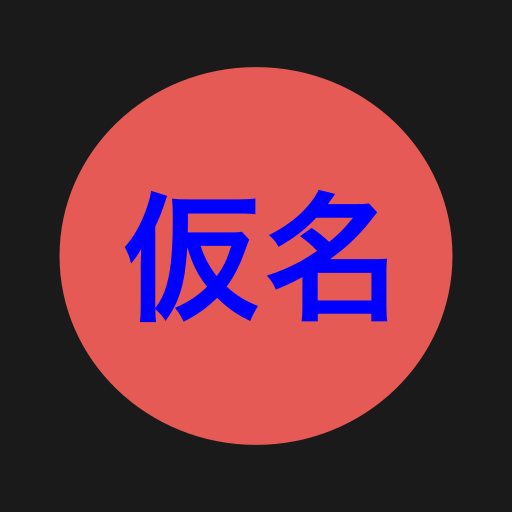
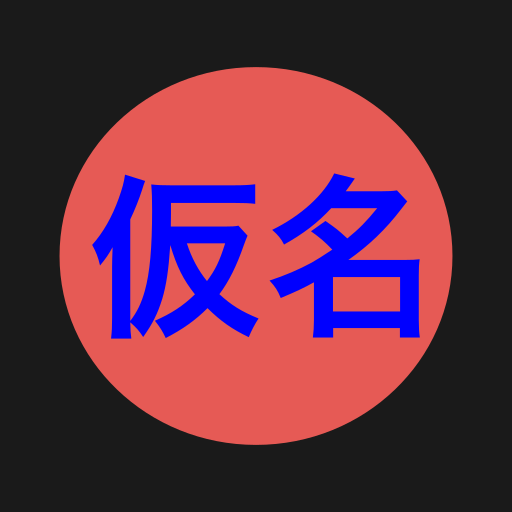
Update kana-match app
Source: 0d33e7e Revert "Fix iOS PWA navigation redirect error in service worker"

Changed region(s): [[0.1562, 0.3438, 0.5, 0.6875], [0.5, 0.3438, 0.8438, 0.6875]]

diff --git a/kana-match/sw.js b/kana-match/sw.js
@@ -1,4 +1,4 @@
-const CACHE = 'kana-v9';
+const CACHE = 'kana-v8';
 const ASSETS = ['./index.html', './style.css', './game.js', './manifest.json', './icon-192.png', './icon-512.png', './gear.png'];
 
 self.addEventListener('install', e => {
@@ -14,16 +14,6 @@ self.addEventListener('activate', e => {
 });
 
 self.addEventListener('fetch', e => {
-  if (e.request.mode === 'navigate') {
-    // Navigation requests arrive with redirect:'manual', so fetch(e.request)
-    // returns an opaque redirect response that iOS WPA rejects. Serve
-    // index.html from cache, or fetch with redirect:'follow' if cache is cold.
-    e.respondWith(
-      caches.match('./index.html')
-        .then(r => r || fetch(new Request(e.request, {redirect: 'follow'})))
-    );
-    return;
-  }
   e.respondWith(
     caches.match(e.request).then(r => r || fetch(e.request))
   );